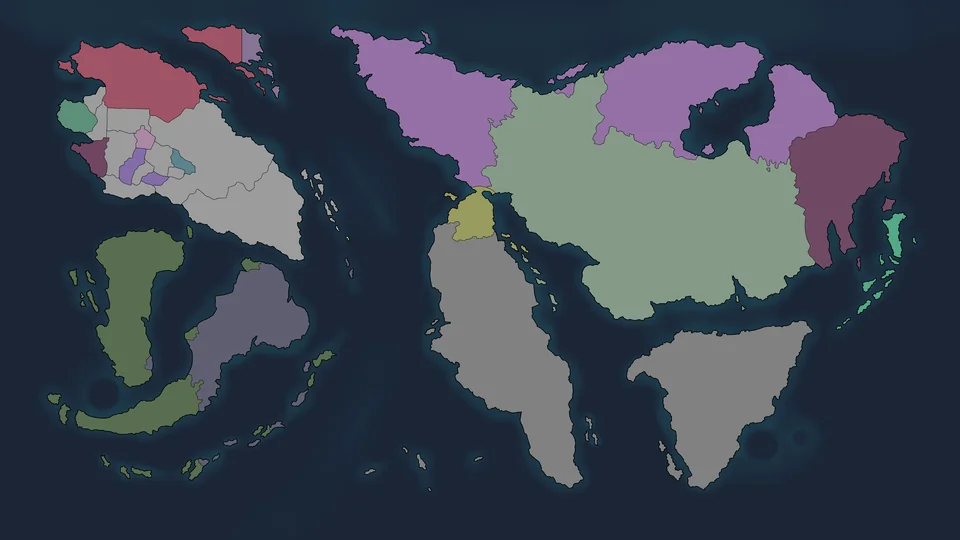
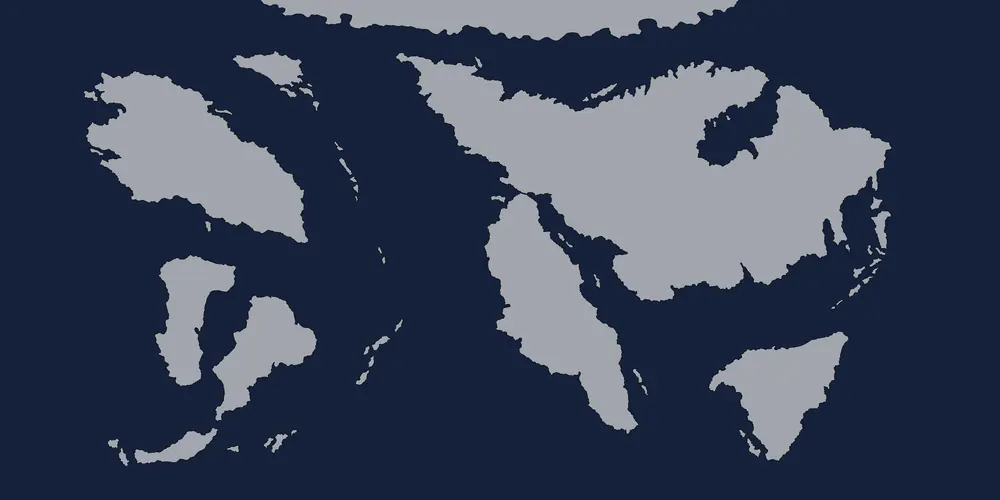
Replace world map with new 2:1 map, regenerate regions
Claude-Session: https://claude.ai/code/session_01V6kv93tbxGN1h4LXrecu4j

diff --git a/layouts/map/list.html b/layouts/map/list.html
@@ -1,9 +1,9 @@
 {{ partial "top" . }}
 <style>
 section{width:100%;padding:0;border:0;position:relative;overflow:hidden}
-#m{flex:1;position:relative;overflow:hidden;background:#1b2738;touch-action:none;cursor:grab}
+#m{flex:1;position:relative;overflow:hidden;background:#152139;touch-action:none;cursor:grab}
 #c,#c img,#c svg{left:0;top:0}
-#c{position:absolute;width:3840px;height:2160px;transform-origin:0 0}
+#c{position:absolute;width:4096px;height:2048px;transform-origin:0 0}
 #c.t{transition:transform .25s}
 #c img,#c svg{position:absolute;width:100%;height:100%;pointer-events:none}
 #c path{fill:transparent;pointer-events:all;cursor:pointer}
@@ -25,16 +25,16 @@ aside>a{position:absolute;right:14px;top:10px;font-size:20px;cursor:pointer}
 <div class="z"><a id="zg" style="font-size:12px">3D</a><a id="zi">+</a><a id="zo">−</a></div>
 <aside id="p"><a id="pc">×</a><h1 id="pt"></h1><hr><i id="px"></i></aside>
 <div id="g"></div>
-<div id="m"><div id="c"><img id="im" alt=""><svg id="sv" viewBox="0 0 3840 2160"></svg></div></div>
+<div id="m"><div id="c"><img id="im" alt=""><svg id="sv" viewBox="0 0 4096 2048"></svg></div></div>
 </section></main>
 <script>
-var W0=3840,H0=2160,G,ready,gl,gc,tex,tc,tx2,base,bp,pp,tb,pb,eb,ya=0,pa=.15,D=3,SC,AS,dirty,GP={},gm,PP={},A=[],hc=document.createElement("canvas").getContext("2d"),U="{{ "" | relURL }}",W=3840,H=2160,x=0,y=0,k=1,lv=-1,P={},R={},sel,tap=0,mv;
+var W0=4096,H0=2048,G,ready,gl,gc,tex,tc,tx2,base,bp,pp,tb,pb,eb,ya=0,pa=.15,D=3,SC,AS,dirty,GP={},gm,PP={},A=[],hc=document.createElement("canvas").getContext("2d"),U="{{ "" | relURL }}",W=4096,H=2048,x=0,y=0,k=1,lv=-1,P={},R={},sel,tap=0,mv;
 function fit(){return Math.min(m.clientWidth/W,m.clientHeight/H)}
 function set(a){var f=fit(),w=W*k,h=H*k;k=Math.min(Math.max(k,f*.9),2);w=W*k;h=H*k;
 x=w<m.clientWidth?(m.clientWidth-w)/2:Math.min(0,Math.max(m.clientWidth-w,x));
 y=h<m.clientHeight?(m.clientHeight-h)/2:Math.min(0,Math.max(m.clientHeight-h,y));
 c.classList.toggle("t",!!a);c.style.transform="translate("+x+"px,"+y+"px) scale("+k+")";c.style.setProperty("--k",k);
-var n=W*k*devicePixelRatio,l=n>1920?2:n>960?1:0;if(l>lv){lv=l;var i=new Image;i.onload=function(){if(l>=lv)im.src=i.src};i.src=U+"map/"+l+".webp"}}
+var n=W*k*devicePixelRatio,l=n>2000?2:n>1000?1:0;if(l>lv){lv=l;var i=new Image;i.onload=function(){if(l>=lv)im.src=i.src};i.src=U+"map/"+l+".webp"}}
 function zoom(f,px,py,a){var k2=Math.min(Math.max(k*f,fit()*.9),2);x=px-(px-x)*k2/k;y=py-(py-y)*k2/k;k=k2;set(a)}
 function pick(i){if(sel)sel.classList.remove("s");sel=i?document.getElementById("r"+i):null;
 if(sel){sel.classList.add("s");pt.textContent=R[i].name;px.textContent=R[i].text}p.classList.toggle("o",!!sel);if(G)tx()}
